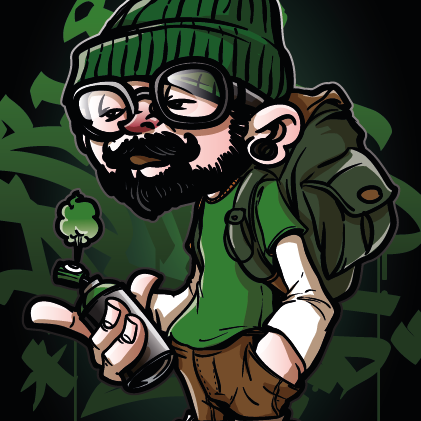
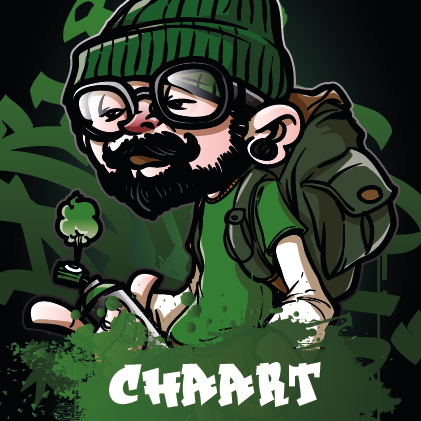
upd img

Changed region(s): [[0.0, 0.6793, 0.9572, 1.0], [0.0309, 0.8955, 0.0618, 0.9264]]

diff --git a/src/data/games/graffity.js b/src/data/games/graffity.js
@@ -3,13 +3,14 @@ import categoriesGames from '../categoriesGames';
 
 let game = new GameClass();
 game.promo = {
-	name: '12.262',
-	shortName: '12.262',
-	banner: 'img/games/banners/graffity_banner.png',
+	name: 'Graffity',
+	shortName: 'Graffity',
+	banner:
+		'https://raw.githubusercontent.com/oleg-darkdev/dd/deploy/static/img/games/banners/graffity_banner.png',
 	logo: 'img/games/logos/graffity_logo.png',
 	status: 1, // 0 - alfa, 1 - beta, 2 - good,
 	shortDescription: '',
-	brandColor: '#D4944A',
+	brandColor: '#FEEB1A',
 	id: 'graffity',
 	price: '',
 	categories: [categoriesGames[1], categoriesGames[2], categoriesGames[5], categoriesGames[6]]
@@ -19,73 +20,263 @@ game.roles = {
 		'Lorem ipsum dolor sit amet, consectetur adipiscing elit, sed do eiusmod tempor incididunt ut labore et dolore magna aliqua. Ut enim ad minim veniam, quis nostrud exercitation ullamco laboris nisi ut aliquip ex ea commodo consequat. ',
 		'Lorem ipsum dolor sit amet, consectetur adipiscing elit, sed do eiusmod tempor incididunt ut labore et dolore magna aliqua. Ut enim ad minim veniam, quis nostrud exercitation ullamco laboris nisi ut aliquip ex ea commodo consequat. '
 	],
-	banner: '',
+	banner:
+		'https://raw.githubusercontent.com/oleg-darkdev/dd/deploy/static/img/games/graffity/banners/persons_banner.png',
 	characters: [
 		{
-			name: 'Lorem ipsum',
+			name: 'CHAAAART',
+			bgColor: '#32331E',
 			description:
 				'Lorem ipsum dolor sit amet, consectetur adipiscing elit, sed do eiusmod tempor incididunt ut labore et dolore magna aliqua.',
-			img: ''
+			img: 'https://raw.githubusercontent.com/oleg-darkdev/dd/deploy/static/img/games/graffity/persons/CHAAAART_person.png'
 		},
 		{
-			name: 'Lorem ipsum',
+			name: 'BANDIT',
+			bgColor: '#A12835',
 			description:
 				'Lorem ipsum dolor sit amet, consectetur adipiscing elit, sed do eiusmod tempor incididunt ut labore et dolore magna aliqua.',
-			img: ''
+			img: 'https://raw.githubusercontent.com/oleg-darkdev/dd/deploy/static/img/games/graffity/persons/BANDIT_person.png'
 		},
 		{
-			name: 'Lorem ipsum',
+			name: 'MILLA',
+			bgColor: '#F49523',
 			description:
 				'Lorem ipsum dolor sit amet, consectetur adipiscing elit, sed do eiusmod tempor incididunt ut labore et dolore magna aliqua.',
-			img: ''
+			img: 'https://raw.githubusercontent.com/oleg-darkdev/dd/deploy/static/img/games/graffity/persons/MILLA_person.png'
 		},
 		{
-			name: 'Lorem ipsum',
+			name: 'T1T!N',
+			bgColor: '#00A79D',
 			description:
 				'Lorem ipsum dolor sit amet, consectetur adipiscing elit, sed do eiusmod tempor incididunt ut labore et dolore magna aliqua.',
-			img: ''
+			img: 'https://raw.githubusercontent.com/oleg-darkdev/dd/deploy/static/img/games/graffity/persons/t1t1n_person.png'
 		},
 		{
-			name: 'Lorem ipsum',
+			name: 'OMI',
+			bgColor: '#97C21E',
 			description:
 				'Lorem ipsum dolor sit amet, consectetur adipiscing elit, sed do eiusmod tempor incididunt ut labore et dolore magna aliqua.',
-			img: ''
+			img: 'https://raw.githubusercontent.com/oleg-darkdev/dd/deploy/static/img/games/graffity/persons/OMI_person.png'
 		},
 		{
-			name: 'Lorem ipsum',
+			name: 'FOREST',
+			bgColor: '#397E32',
 			description:
 				'Lorem ipsum dolor sit amet, consectetur adipiscing elit, sed do eiusmod tempor incididunt ut labore et dolore magna aliqua.',
-			img: ''
+			img: 'https://raw.githubusercontent.com/oleg-darkdev/dd/deploy/static/img/games/graffity/persons/FOREST_person.png'
+		},
+
+		{
+			name: 'TAGERAN',
+			bgColor: '#2C5F90',
+			description:
+				'Lorem ipsum dolor sit amet, consectetur adipiscing elit, sed do eiusmod tempor incididunt ut labore et dolore magna aliqua.',
+			img: 'https://raw.githubusercontent.com/oleg-darkdev/dd/deploy/static/img/games/graffity/persons/TAGERAN_person.png'
 		},
 		{
-			name: 'Lorem ipsum',
+			name: 'PTSR',
+			bgColor: '#03221C',
 			description:
 				'Lorem ipsum dolor sit amet, consectetur adipiscing elit, sed do eiusmod tempor incididunt ut labore et dolore magna aliqua.',
-			img: ''
+			img: 'https://raw.githubusercontent.com/oleg-darkdev/dd/deploy/static/img/games/graffity/persons/PTSR_person.png'
 		},
 		{
-			name: 'Lorem ipsum',
+			name: '9LVL',
+			bgColor: '#F49523',
 			description:
 				'Lorem ipsum dolor sit amet, consectetur adipiscing elit, sed do eiusmod tempor incididunt ut labore et dolore magna aliqua.',
-			img: ''
+			img: 'https://raw.githubusercontent.com/oleg-darkdev/dd/deploy/static/img/games/graffity/persons/9LVL_person.png'
 		},
 		{
-			name: 'Lorem ipsum',
+			name: 'BOMB4',
+			bgColor: '#414142',
 			description:
 				'Lorem ipsum dolor sit amet, consectetur adipiscing elit, sed do eiusmod tempor incididunt ut labore et dolore magna aliqua.',
-			img: ''
+			img: 'https://raw.githubusercontent.com/oleg-darkdev/dd/deploy/static/img/games/graffity/persons/BOMB4_person.png'
+		},
+
+		{
+			name: 'ARA',
+			bgColor: '#4A2775',
+			description:
+				'Lorem ipsum dolor sit amet, consectetur adipiscing elit, sed do eiusmod tempor incididunt ut labore et dolore magna aliqua.',
+			img: 'https://raw.githubusercontent.com/oleg-darkdev/dd/deploy/static/img/games/graffity/persons/ara_person.png'
+		},
+
+		{
+			name: 'UMACHINE',
+			bgColor: '#571110',
+			description:
+				'Lorem ipsum dolor sit amet, consectetur adipiscing elit, sed do eiusmod tempor incididunt ut labore et dolore magna aliqua.',
+			img: 'https://raw.githubusercontent.com/oleg-darkdev/dd/deploy/static/img/games/graffity/persons/UMACHINE_person.png'
 		},
 		{
-			name: 'Lorem ipsum',
+			name: '115',
+			bgColor: '#C3185B',
 			description:
 				'Lorem ipsum dolor sit amet, consectetur adipiscing elit, sed do eiusmod tempor incididunt ut labore et dolore magna aliqua.',
-			img: ''
+			img: 'https://raw.githubusercontent.com/oleg-darkdev/dd/deploy/static/img/games/graffity/persons/115_band_1.png'
 		},
 		{
-			name: 'Lorem ipsum',
+			name: '115',
+			bgColor: '#C3185B',
 			description:
 				'Lorem ipsum dolor sit amet, consectetur adipiscing elit, sed do eiusmod tempor incididunt ut labore et dolore magna aliqua.',
-			img: ''
+			img: 'https://raw.githubusercontent.com/oleg-darkdev/dd/deploy/static/img/games/graffity/persons/115_band_2.png'
+		},
+		{
+			name: '9rabble',
+			bgColor: '#C2B59C',
+			description:
+				'Lorem ipsum dolor sit amet, consectetur adipiscing elit, sed do eiusmod tempor incididunt ut labore et dolore magna aliqua.',
+			img: 'https://raw.githubusercontent.com/oleg-darkdev/dd/deploy/static/img/games/graffity/persons/9rabble_band_1.png'
+		},
+		{
+			name: '9rabble',
+			bgColor: '#C2B59C',
+			description:
+				'Lorem ipsum dolor sit amet, consectetur adipiscing elit, sed do eiusmod tempor incididunt ut labore et dolore magna aliqua.',
+			img: 'https://raw.githubusercontent.com/oleg-darkdev/dd/deploy/static/img/games/graffity/persons/9rabble_band_2.png'
+		},
+		{
+			name: 'BDB',
+			bgColor: '#455A64',
+			description:
+				'Lorem ipsum dolor sit amet, consectetur adipiscing elit, sed do eiusmod tempor incididunt ut labore et dolore magna aliqua.',
+			img: 'https://raw.githubusercontent.com/oleg-darkdev/dd/deploy/static/img/games/graffity/persons/bdb_band_1.png'
+		},
+		{
+			name: 'BDB',
+			bgColor: '#455A64',
+			description:
+				'Lorem ipsum dolor sit amet, consectetur adipiscing elit, sed do eiusmod tempor incididunt ut labore et dolore magna aliqua.',
+			img: 'https://raw.githubusercontent.com/oleg-darkdev/dd/deploy/static/img/games/graffity/persons/bdb_band_2.png'
+		},
+		{
+			name: 'cbs tv',
+			bgColor: '#72160E',
+			description:
+				'Lorem ipsum dolor sit amet, consectetur adipiscing elit, sed do eiusmod tempor incididunt ut labore et dolore magna aliqua.',
+			img: 'https://raw.githubusercontent.com/oleg-darkdev/dd/deploy/static/img/games/graffity/persons/cbstv_band_2.png'
+		},
+		{
+			name: 'cbs tv',
+			bgColor: '#72160E',
+			description:
+				'Lorem ipsum dolor sit amet, consectetur adipiscing elit, sed do eiusmod tempor incididunt ut labore et dolore magna aliqua.',
+			img: 'https://raw.githubusercontent.com/oleg-darkdev/dd/deploy/static/img/games/graffity/persons/cbstv_band_1.png'
+		},
+		{
+			name: 'DMOB',
+			bgColor: '#AED081',
+			description:
+				'Lorem ipsum dolor sit amet, consectetur adipiscing elit, sed do eiusmod tempor incididunt ut labore et dolore magna aliqua.',
+			img: 'https://raw.githubusercontent.com/oleg-darkdev/dd/deploy/static/img/games/graffity/persons/dmob_band_1.png'
+		},
+		{
+			name: 'DMOB',
+			bgColor: '#AED081',
+			description:
+				'Lorem ipsum dolor sit amet, consectetur adipiscing elit, sed do eiusmod tempor incididunt ut labore et dolore magna aliqua.',
+			img: 'https://raw.githubusercontent.com/oleg-darkdev/dd/deploy/static/img/games/graffity/persons/dmob_band_2.png'
+		},
+		{
+			name: 'GENERALS',
+			bgColor: '#FEF077',
+			description:
+				'Lorem ipsum dolor sit amet, consectetur adipiscing elit, sed do eiusmod tempor incididunt ut labore et dolore magna aliqua.',
+			img: 'https://raw.githubusercontent.com/oleg-darkdev/dd/deploy/static/img/games/graffity/persons/generals_band_1.png'
+		},
+		{
+			name: 'GENERALS',
+			bgColor: '#FEF077',
+			description:
+				'Lorem ipsum dolor sit amet, consectetur adipiscing elit, sed do eiusmod tempor incididunt ut labore et dolore magna aliqua.',
+			img: 'https://raw.githubusercontent.com/oleg-darkdev/dd/deploy/static/img/games/graffity/persons/generals_band_2.png'
+		},
+		{
+			name: 'IOCA',
+			bgColor: '#F18767',
+			description:
+				'Lorem ipsum dolor sit amet, consectetur adipiscing elit, sed do eiusmod tempor incididunt ut labore et dolore magna aliqua.',
+			img: 'https://raw.githubusercontent.com/oleg-darkdev/dd/deploy/static/img/games/graffity/persons/ioca_band.png'
+		},
+		{
+			name: 'IOCA',
+			bgColor: '#F18767',
+			description:
+				'Lorem ipsum dolor sit amet, consectetur adipiscing elit, sed do eiusmod tempor incididunt ut labore et dolore magna aliqua.',
+			img: 'https://raw.githubusercontent.com/oleg-darkdev/dd/deploy/static/img/games/graffity/persons/ioca_band_1.png'
+		},
+		{
+			name: 'JFA',
+			bgColor: '#4C3B8F',
+			description:
+				'Lorem ipsum dolor sit amet, consectetur adipiscing elit, sed do eiusmod tempor incididunt ut labore et dolore magna aliqua.',
+			img: 'https://raw.githubusercontent.com/oleg-darkdev/dd/deploy/static/img/games/graffity/persons/jfa_band_1.png'
+		},
+		{
+			name: 'JFA',
+			bgColor: '#4C3B8F',
+			description:
+				'Lorem ipsum dolor sit amet, consectetur adipiscing elit, sed do eiusmod tempor incididunt ut labore et dolore magna aliqua.',
+			img: 'https://raw.githubusercontent.com/oleg-darkdev/dd/deploy/static/img/games/graffity/persons/jfa_band.png'
+		},
+		{
+			name: 'SK8',
+			bgColor: '#5E3833',
+			description:
+				'Lorem ipsum dolor sit amet, consectetur adipiscing elit, sed do eiusmod tempor incididunt ut labore et dolore magna aliqua.',
+			img: 'https://raw.githubusercontent.com/oleg-darkdev/dd/deploy/static/img/games/graffity/persons/sk_band_1.png'
+		},
+		{
+			name: 'SK8',
+			bgColor: '#5E3833',
+			description:
+				'Lorem ipsum dolor sit amet, consectetur adipiscing elit, sed do eiusmod tempor incididunt ut labore et dolore magna aliqua.',
+			img: 'https://raw.githubusercontent.com/oleg-darkdev/dd/deploy/static/img/games/graffity/persons/sk_band_2.png'
+		},
+		{
+			name: 'Skate punks',
+			bgColor: '#0597A7',
+			description:
+				'Lorem ipsum dolor sit amet, consectetur adipiscing elit, sed do eiusmod tempor incididunt ut labore et dolore magna aliqua.',
+			img: 'https://raw.githubusercontent.com/oleg-darkdev/dd/deploy/static/img/games/graffity/persons/skatepunk_band_1.png'
+		},
+		{
+			name: 'Skate punks',
+			bgColor: '#0597A7',
+			description:
+				'Lorem ipsum dolor sit amet, consectetur adipiscing elit, sed do eiusmod tempor incididunt ut labore et dolore magna aliqua.',
+			img: 'https://raw.githubusercontent.com/oleg-darkdev/dd/deploy/static/img/games/graffity/persons/skatepunk_band_2.png'
+		},
+		{
+			name: 'TYGOLB',
+			bgColor: '#90A4AE',
+			description:
+				'Lorem ipsum dolor sit amet, consectetur adipiscing elit, sed do eiusmod tempor incididunt ut labore et dolore magna aliqua.',
+			img: 'https://raw.githubusercontent.com/oleg-darkdev/dd/deploy/static/img/games/graffity/persons/tygolb_band_1.png'
+		},
+		{
+			name: 'TYGOLB',
+			bgColor: '#90A4AE',
+			description:
+				'Lorem ipsum dolor sit amet, consectetur adipiscing elit, sed do eiusmod tempor incididunt ut labore et dolore magna aliqua.',
+			img: 'https://raw.githubusercontent.com/oleg-darkdev/dd/deploy/static/img/games/graffity/persons/tygolb_band_2.png'
+		},
+		{
+			name: 'WBAFT',
+			bgColor: '#AFB42B',
+			description:
+				'Lorem ipsum dolor sit amet, consectetur adipiscing elit, sed do eiusmod tempor incididunt ut labore et dolore magna aliqua.',
+			img: 'https://raw.githubusercontent.com/oleg-darkdev/dd/deploy/static/img/games/graffity/persons/wbaft_band_1.png'
+		},
+		{
+			name: 'WBAFT',
+			bgColor: '#AFB42B',
+			description:
+				'Lorem ipsum dolor sit amet, consectetur adipiscing elit, sed do eiusmod tempor incididunt ut labore et dolore magna aliqua.',
+			img: 'https://raw.githubusercontent.com/oleg-darkdev/dd/deploy/static/img/games/graffity/persons/wbaft_band_2.png'
 		}
 	]
 };

diff --git a/src/layout/ImgFaq.svelte b/src/layout/ImgFaq.svelte
@@ -1,0 +1,26 @@
+<script>
+   import Paper, {Title, Subtitle, Content} from '@smui/paper/dist';
+   import SvgLine from './ColorSvgLine.svelte'
+
+export let title, color, img;
+</script>
+
+<style>
+
+</style>
+
+<section style="width: 100%; background-color: #191B1B;">
+  <!--  margin-top: -50px; -->
+<!-- <SvgLine/> -->
+  <div class="section-body bg-img" style="background-image: url({img});">
+    <Paper color="primary" style="width: 90%; border: {color ? color: '#191B1B'}; margin: 0 20%; max-width: 1200px; background-color: #191B1B;" class="paper-demo">
+      <Title style="color: {color ? color: '#fff'}; font: 26px 'grafitty';">{title}</Title>
+      <Content >
+        <slot>
+        </slot>
+      </Content>
+    </Paper>
+  </div>
+</section>
+
+

diff --git a/src/routes/index.svelte b/src/routes/index.svelte
@@ -83,6 +83,6 @@ let getStarted = false;
     }
 
  .bg-img-index {
-     background-image: url('img/bg/main_bg.png');
+     background-image: url('https://github.com/oleg-darkdev/dd/blob/deploy/static/img/bg/main_bg.png');
   }
 </style>
